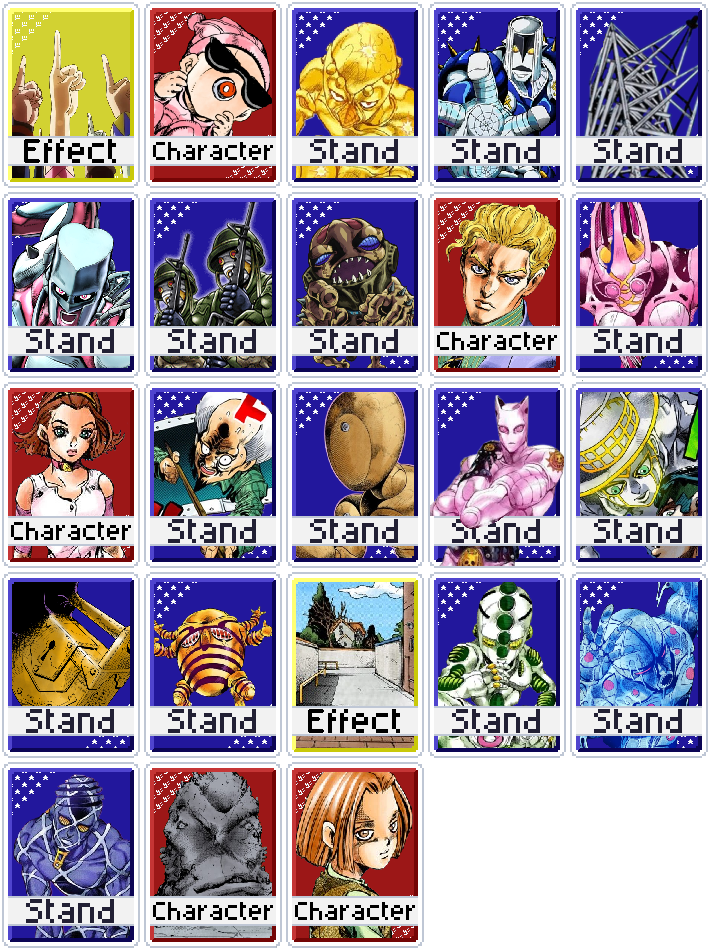
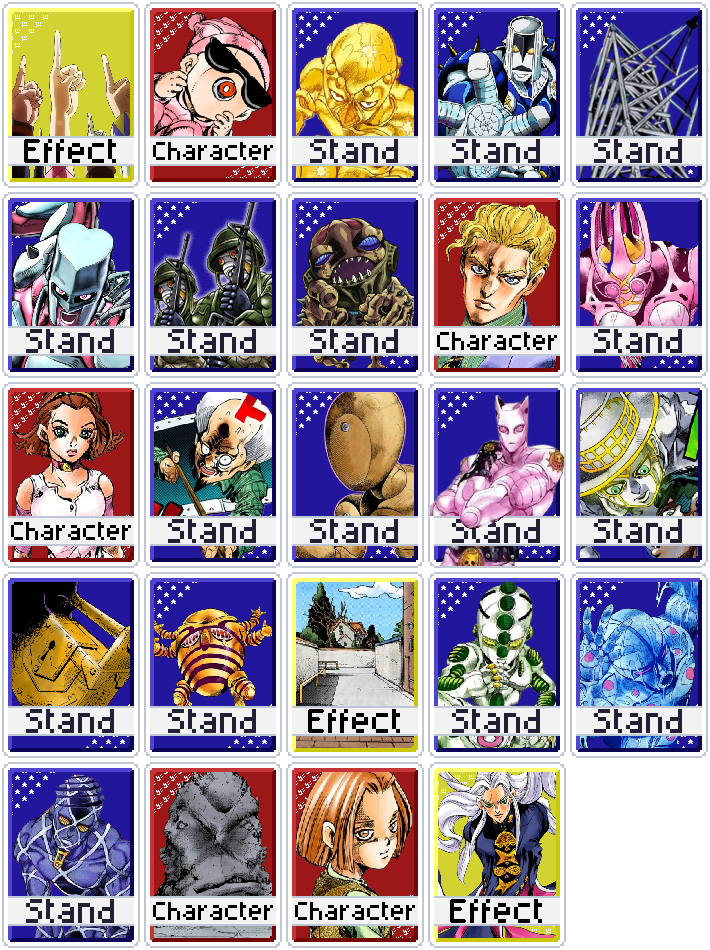
Add Earth Wind and Fire joker

Changed region(s): [[0.5887, 0.7937, 0.8056, 1.0]]

diff --git a/compendium/tests/test_build.py b/compendium/tests/test_build.py
@@ -28,7 +28,7 @@ def test_outputs_exist(site):
 
 
 def test_data_has_every_joker(data):
-    assert len(data["jokers"]) == 171 and data["version"] == "v9.9.9"
+    assert len(data["jokers"]) == 172 and data["version"] == "v9.9.9"
     assert len(data["themes"]) == 57
 
 

diff --git a/compendium/tests/test_lua_env.py b/compendium/tests/test_lua_env.py
@@ -7,7 +7,7 @@ def find(mod, key):
 
 
 def test_loads_every_joker(mod):
-    assert len(mod.jokers) == 171
+    assert len(mod.jokers) == 172
 
 
 def test_order_is_collection_order(mod):
